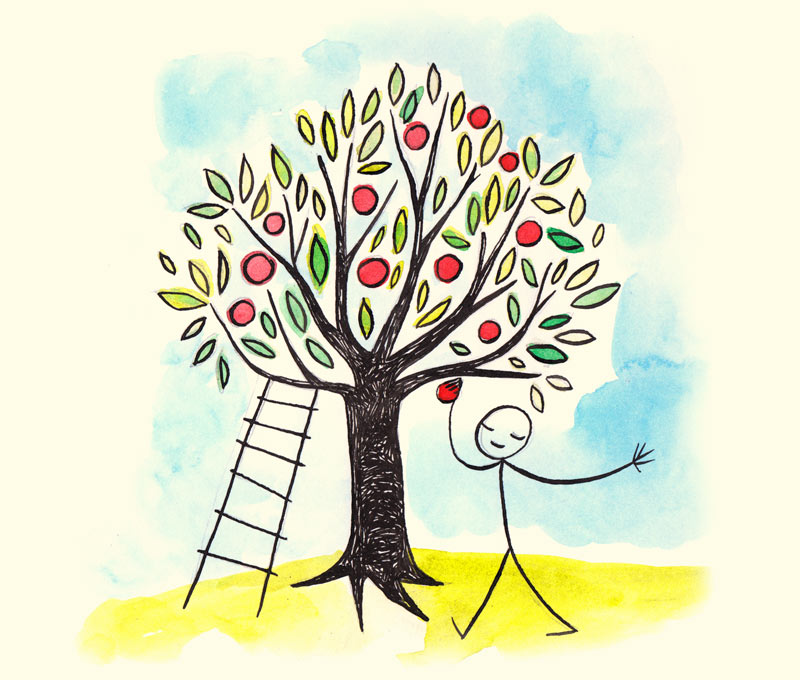
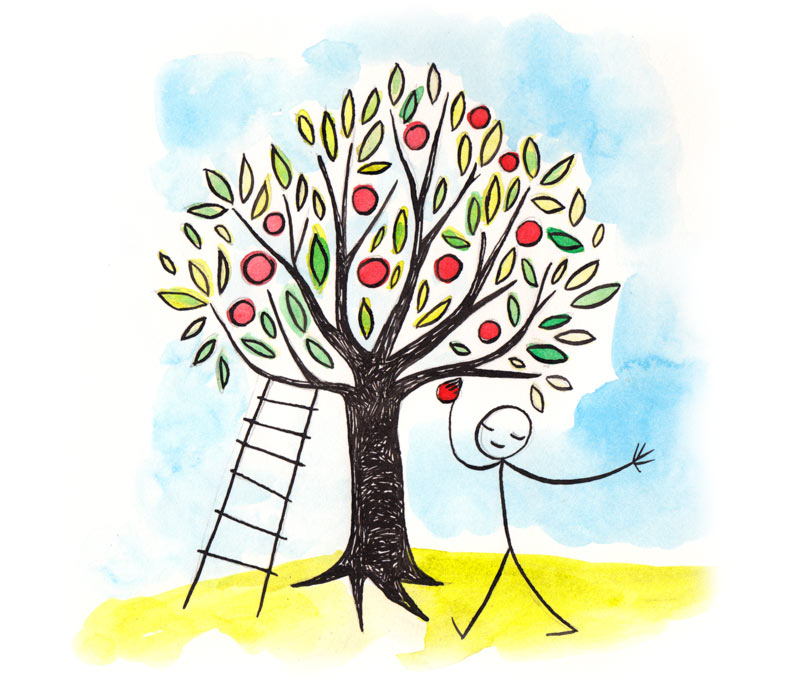
trying out white background

Changed region(s): [[0.8438, 0.5868, 0.875, 0.6485], [0.875, 0.7103, 0.9062, 0.7412], [0.875, 0.5559, 0.9062, 0.5868]]

diff --git a/app/assets/stylesheets/custom.css.scss b/app/assets/stylesheets/custom.css.scss
@@ -11,6 +11,17 @@ $iconWhiteSpritePath: '';
   max-width: 800px;
 }
 
+/*
+.brand_gradient {
+  background-image: -ms-linear-gradient(bottom, white 0%, $COLOR_BACKGROUND_WHITE 100%);
+  background-image: -moz-linear-gradient(bottom, white 0%, $COLOR_BACKGROUND_WHITE 100%);
+  background-image: -o-linear-gradient(bottom, white 0%, $COLOR_BACKGROUND_WHITE 100%);
+  background-image: -webkit-gradient(linear, left bottom, left top, color-stop(0, white), color-stop(1, $COLOR_BACKGROUND_WHITE));
+  background-image: -webkit-linear-gradient(bottom, white 0%, $COLOR_BACKGROUND_WHITE 100%);
+  background-image: linear-gradient(to top, white 0%, $COLOR_BACKGROUND_WHITE 100%);
+}
+*/
+
 img.brand_image {
   width: 120px;
   float: left;

diff --git a/app/assets/stylesheets/locations.css.scss b/app/assets/stylesheets/locations.css.scss
@@ -65,7 +65,7 @@
 li.location_item {
   @extend .hover_container;
   &:hover {
-    background-color: lighten($COLOR_WELL_WHITE, 5%)
+    background-color: $COLOR_BACKGROUND_WHITE;
   }
   border-bottom: 2px solid $COLOR_WELL_WHITE;
 }

diff --git a/app/assets/stylesheets/yumster.css.scss b/app/assets/stylesheets/yumster.css.scss
@@ -6,7 +6,7 @@ body {
   font-family: "Helvetica Neue", Helvetica, Arial, sans-serif;
   font-size: 14px;
   color: $COLOR_TEXT_BROWN;
-  background-color: $COLOR_BACKGROUND_WHITE;
+  background-color: white;
 }
 
 a {
